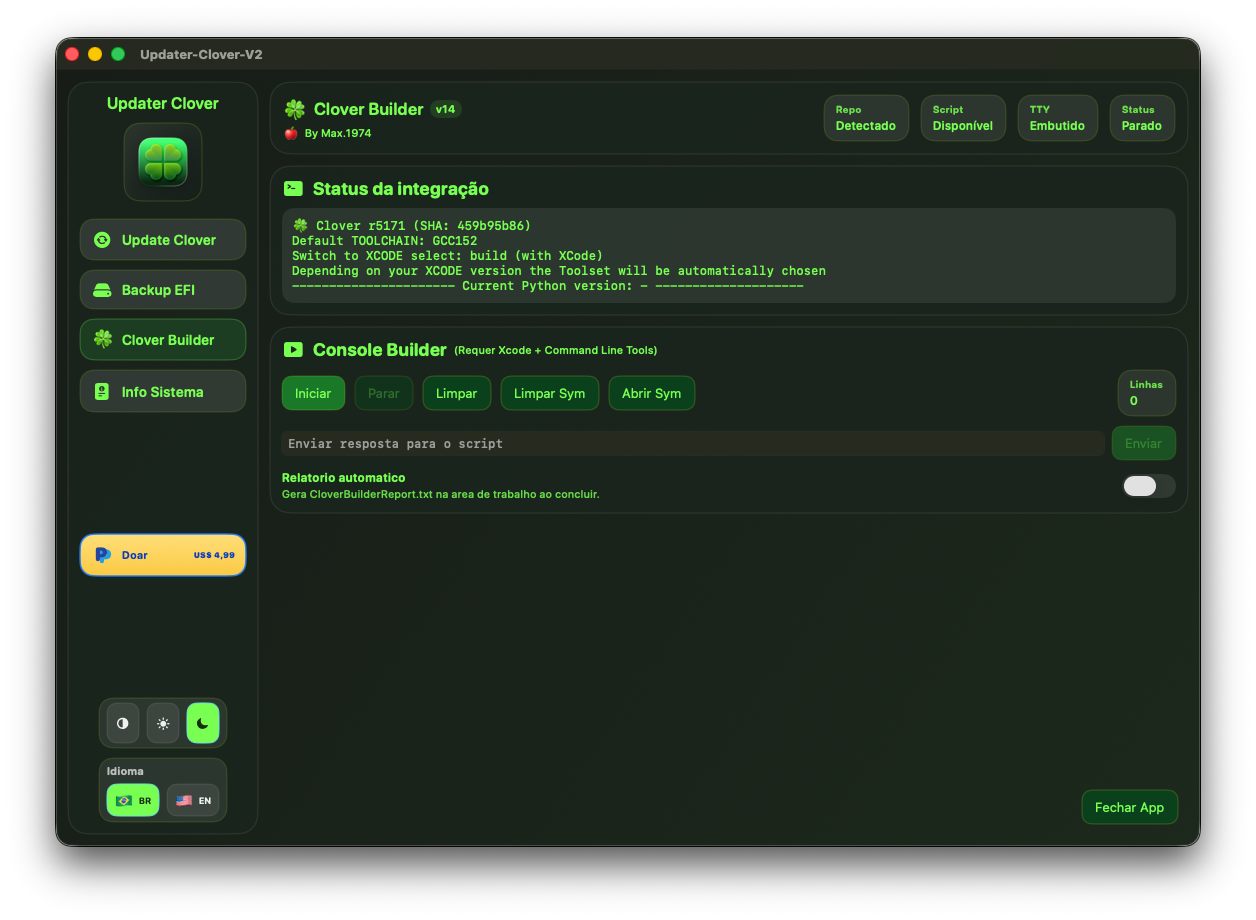
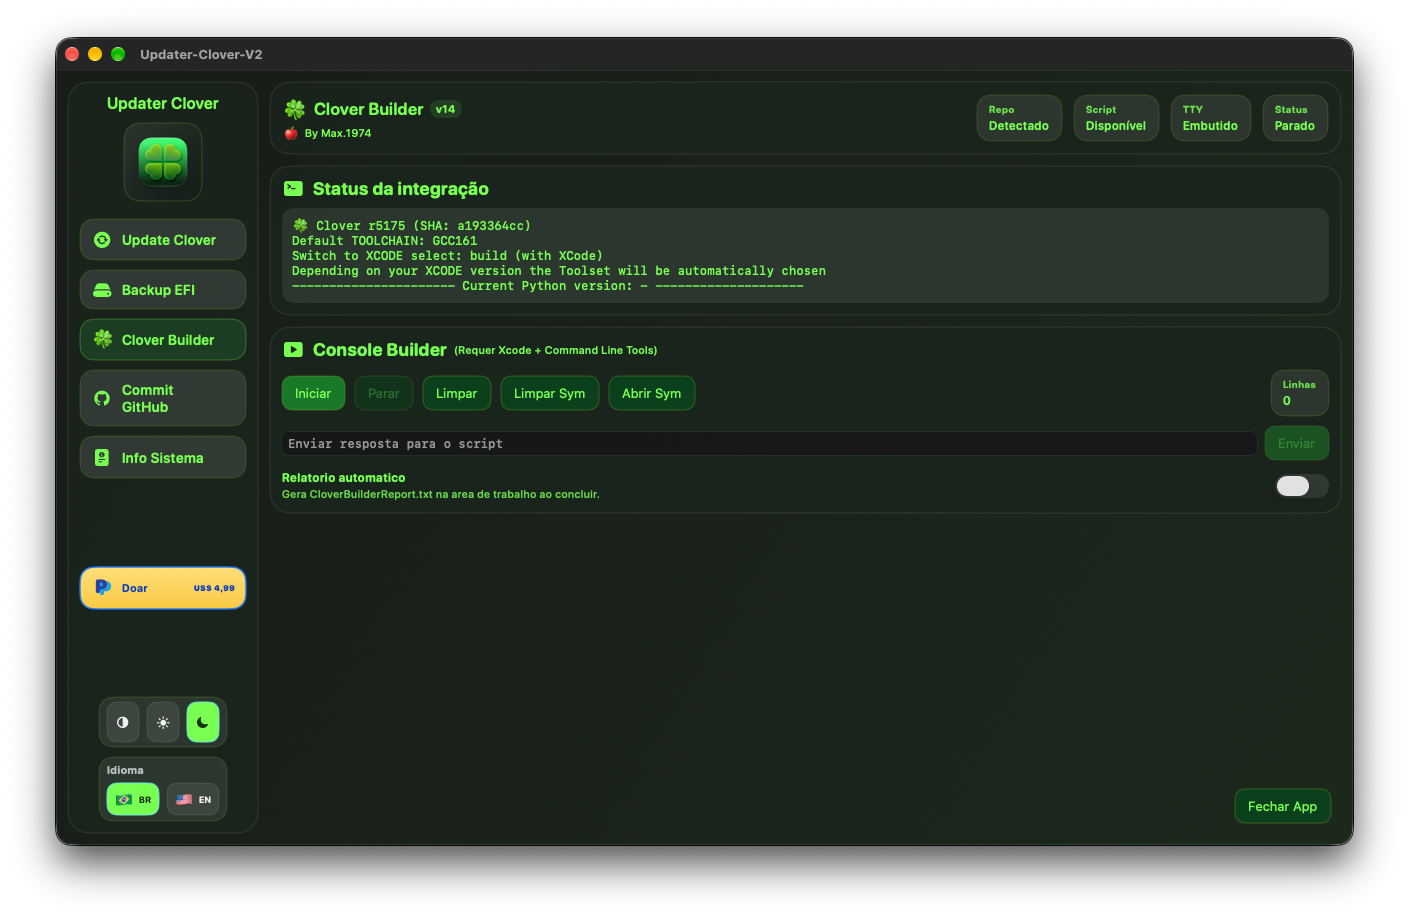
Atualiza prints (Clover r5175) e adiciona aba Commit GitHub
- Substitui capturas de Update Clover, Clover Builder, Backup EFI e Info Sistema
- Adiciona prints da nova aba Commit GitHub (dark + light) e Update Clover light
- Remove prints light desatualizados e a pasta 'para update de imagens'
- index.html: novo card de recurso Commit GitHub, galeria atualizada, 5 abas

diff --git a/index.html b/index.html
@@ -1027,7 +1027,7 @@
   <!-- ── STATS ── -->
   <div class="stats">
     <div class="stat-item reveal">
-      <div class="stat-number">4</div>
+      <div class="stat-number">5</div>
       <div class="stat-label" data-pt>Abas Funcionais</div>
       <div class="stat-label" data-en>Functional Tabs</div>
     </div>
@@ -1053,8 +1053,8 @@
     <div class="section-header reveal">
       <span class="section-tag" data-pt>Recursos</span><span class="section-tag" data-en>Features</span>
       <h2 class="section-title">
-        <span class="block-pt">4 Abas Poderosas em 1 App</span>
-        <span class="block-en">4 Powerful Tabs in 1 App</span>
+        <span class="block-pt">5 Abas Poderosas em 1 App</span>
+        <span class="block-en">5 Powerful Tabs in 1 App</span>
       </h2>
       <p class="section-desc">
         <span class="block-pt">Tudo que você precisa para gerenciar o bootloader Clover e a partição EFI do seu Hackintosh.</span>
@@ -1114,6 +1114,19 @@
         </p>
         <span class="feature-tag">sym · Auto search</span>
       </div>
+
+      <!-- Commit GitHub -->
+      <div class="feature-card reveal">
+        <span class="feature-icon">🐙</span>
+        <div class="feature-title">Commit GitHub</div>
+        <p class="feature-desc block-pt">
+          Mostra o último commit do repositório oficial do Clover e compara com o seu clone local. Atualiza o código-fonte e abre o commit ou o GitHub Actions direto do app.
+        </p>
+        <p class="feature-desc block-en">
+          Shows the latest commit from the official Clover repository and compares it with your local clone. Updates the source and opens the commit or GitHub Actions straight from the app.
+        </p>
+        <span class="feature-tag">Last Build · GitHub Actions</span>
+      </div>
     </div>
 
     <!-- Files Box -->
@@ -1128,7 +1141,7 @@
         <span class="file-chip">VBoxHfs.efi</span>
         <span class="file-chip">EFI/CLOVER/tools/ (modo full)</span>
       </div>
-      <span class="log-line">[Update] EFI bootloader: Clover 5171 (release, commit f6a3d61c3)</span>
+      <span class="log-line">[Update] EFI bootloader: Clover r5175 (release, commit a193364cc)</span>
     </div>
   </section>
 
@@ -1154,6 +1167,13 @@
           Update Clover
         </div>
       </div>
+      <div class="screenshot-item reveal" onclick="openLightbox('assets/images/update-clover-light.png')">
+        <img src="assets/images/update-clover-light.png" alt="Update Clover tab — Light" loading="lazy" />
+        <div class="screenshot-label">
+          <span class="screenshot-badge badge-light">Light</span>
+          Update Clover
+        </div>
+      </div>
       <div class="screenshot-item reveal" onclick="openLightbox('assets/images/clover-builder-dark.png')">
         <img src="assets/images/clover-builder-dark.png" alt="Clover Builder screen — Dark" loading="lazy" />
         <div class="screenshot-label">
@@ -1168,18 +1188,18 @@
           EFI Backup
         </div>
       </div>
-      <div class="screenshot-item reveal" onclick="openLightbox('assets/images/efi-backup-light.png')">
-        <img src="assets/images/efi-backup-light.png" alt="EFI Backup tab — Light" loading="lazy" />
+      <div class="screenshot-item reveal" onclick="openLightbox('assets/images/commit-github-dark.png')">
+        <img src="assets/images/commit-github-dark.png" alt="Commit GitHub tab — Dark" loading="lazy" />
         <div class="screenshot-label">
-          <span class="screenshot-badge badge-light">Light</span>
-          EFI Backup
+          <span class="screenshot-badge badge-dark">Novo</span>
+          Commit GitHub
         </div>
       </div>
-      <div class="screenshot-item reveal" onclick="openLightbox('assets/images/clover-builder-light.png')">
-        <img src="assets/images/clover-builder-light.png" alt="Clover Builder screen — Light" loading="lazy" />
+      <div class="screenshot-item reveal" onclick="openLightbox('assets/images/commit-github-light.png')">
+        <img src="assets/images/commit-github-light.png" alt="Commit GitHub tab — Light" loading="lazy" />
         <div class="screenshot-label">
           <span class="screenshot-badge badge-light">Light</span>
-          Clover Builder
+          Commit GitHub
         </div>
       </div>
       <div class="screenshot-item reveal" onclick="openLightbox('assets/images/info-sistema.png')">
@@ -1216,7 +1236,7 @@
         </div>
       </div>
       <div class="theme-card reveal">
-        <img src="assets/images/clover-builder-light.png" alt="Tema Light" loading="lazy" />
+        <img src="assets/images/update-clover-light.png" alt="Tema Light" loading="lazy" />
         <div class="theme-info">
           <div class="theme-name">☀ <span data-pt>Modo Claro</span><span data-en>Light Mode</span></div>
           <p class="theme-desc block-pt">Interface clara e limpa, perfeita para ambientes bem iluminados. Confortável para uso diurno.</p>

diff --git a/README.md b/README.md
@@ -74,15 +74,19 @@ Com ele, você pode:
 
 ![Update Clover Dark](assets/images/update-clover-dark.png)
 
-![Clover Builder Dark](assets/images/clover-builder-dark.png)
+![Update Clover Light](assets/images/update-clover-light.png)
 
-![Clover Builder Light](assets/images/clover-builder-light.png)
+![Clover Builder Dark](assets/images/clover-builder-dark.png)
 
 ### Backup EFI
 
 ![Backup EFI Dark](assets/images/efi-backup-dark.png)
 
-![Backup EFI Light](assets/images/efi-backup-light.png)
+### Commit GitHub
+
+![Commit GitHub Dark](assets/images/commit-github-dark.png)
+
+![Commit GitHub Light](assets/images/commit-github-light.png)
 
 ### Info System
 

diff --git a/README.pt-BR.md b/README.pt-BR.md
@@ -8,13 +8,15 @@
 
 ![Update Clover Dark](assets/images/update-clover-dark.png)
 
-![Clover Builder Dark](assets/images/clover-builder-dark.png)
+![Update Clover Light](assets/images/update-clover-light.png)
 
-![Clover Builder Light](assets/images/clover-builder-light.png)
+![Clover Builder Dark](assets/images/clover-builder-dark.png)
 
 ![Backup EFI Dark](assets/images/efi-backup-dark.png)
 
-![Backup EFI Light](assets/images/efi-backup-light.png)
+![Commit GitHub Dark](assets/images/commit-github-dark.png)
+
+![Commit GitHub Light](assets/images/commit-github-light.png)
 
 ![Info Sistema](assets/images/info-sistema.png)
 

diff --git a/README.en.md b/README.en.md
@@ -8,13 +8,15 @@
 
 ![Update Clover Dark](assets/images/update-clover-dark.png)
 
-![Clover Builder Dark](assets/images/clover-builder-dark.png)
+![Update Clover Light](assets/images/update-clover-light.png)
 
-![Clover Builder Light](assets/images/clover-builder-light.png)
+![Clover Builder Dark](assets/images/clover-builder-dark.png)
 
 ![EFI Backup Dark](assets/images/efi-backup-dark.png)
 
-![EFI Backup Light](assets/images/efi-backup-light.png)
+![Commit GitHub Dark](assets/images/commit-github-dark.png)
+
+![Commit GitHub Light](assets/images/commit-github-light.png)
 
 ![Info System](assets/images/info-sistema.png)
 
